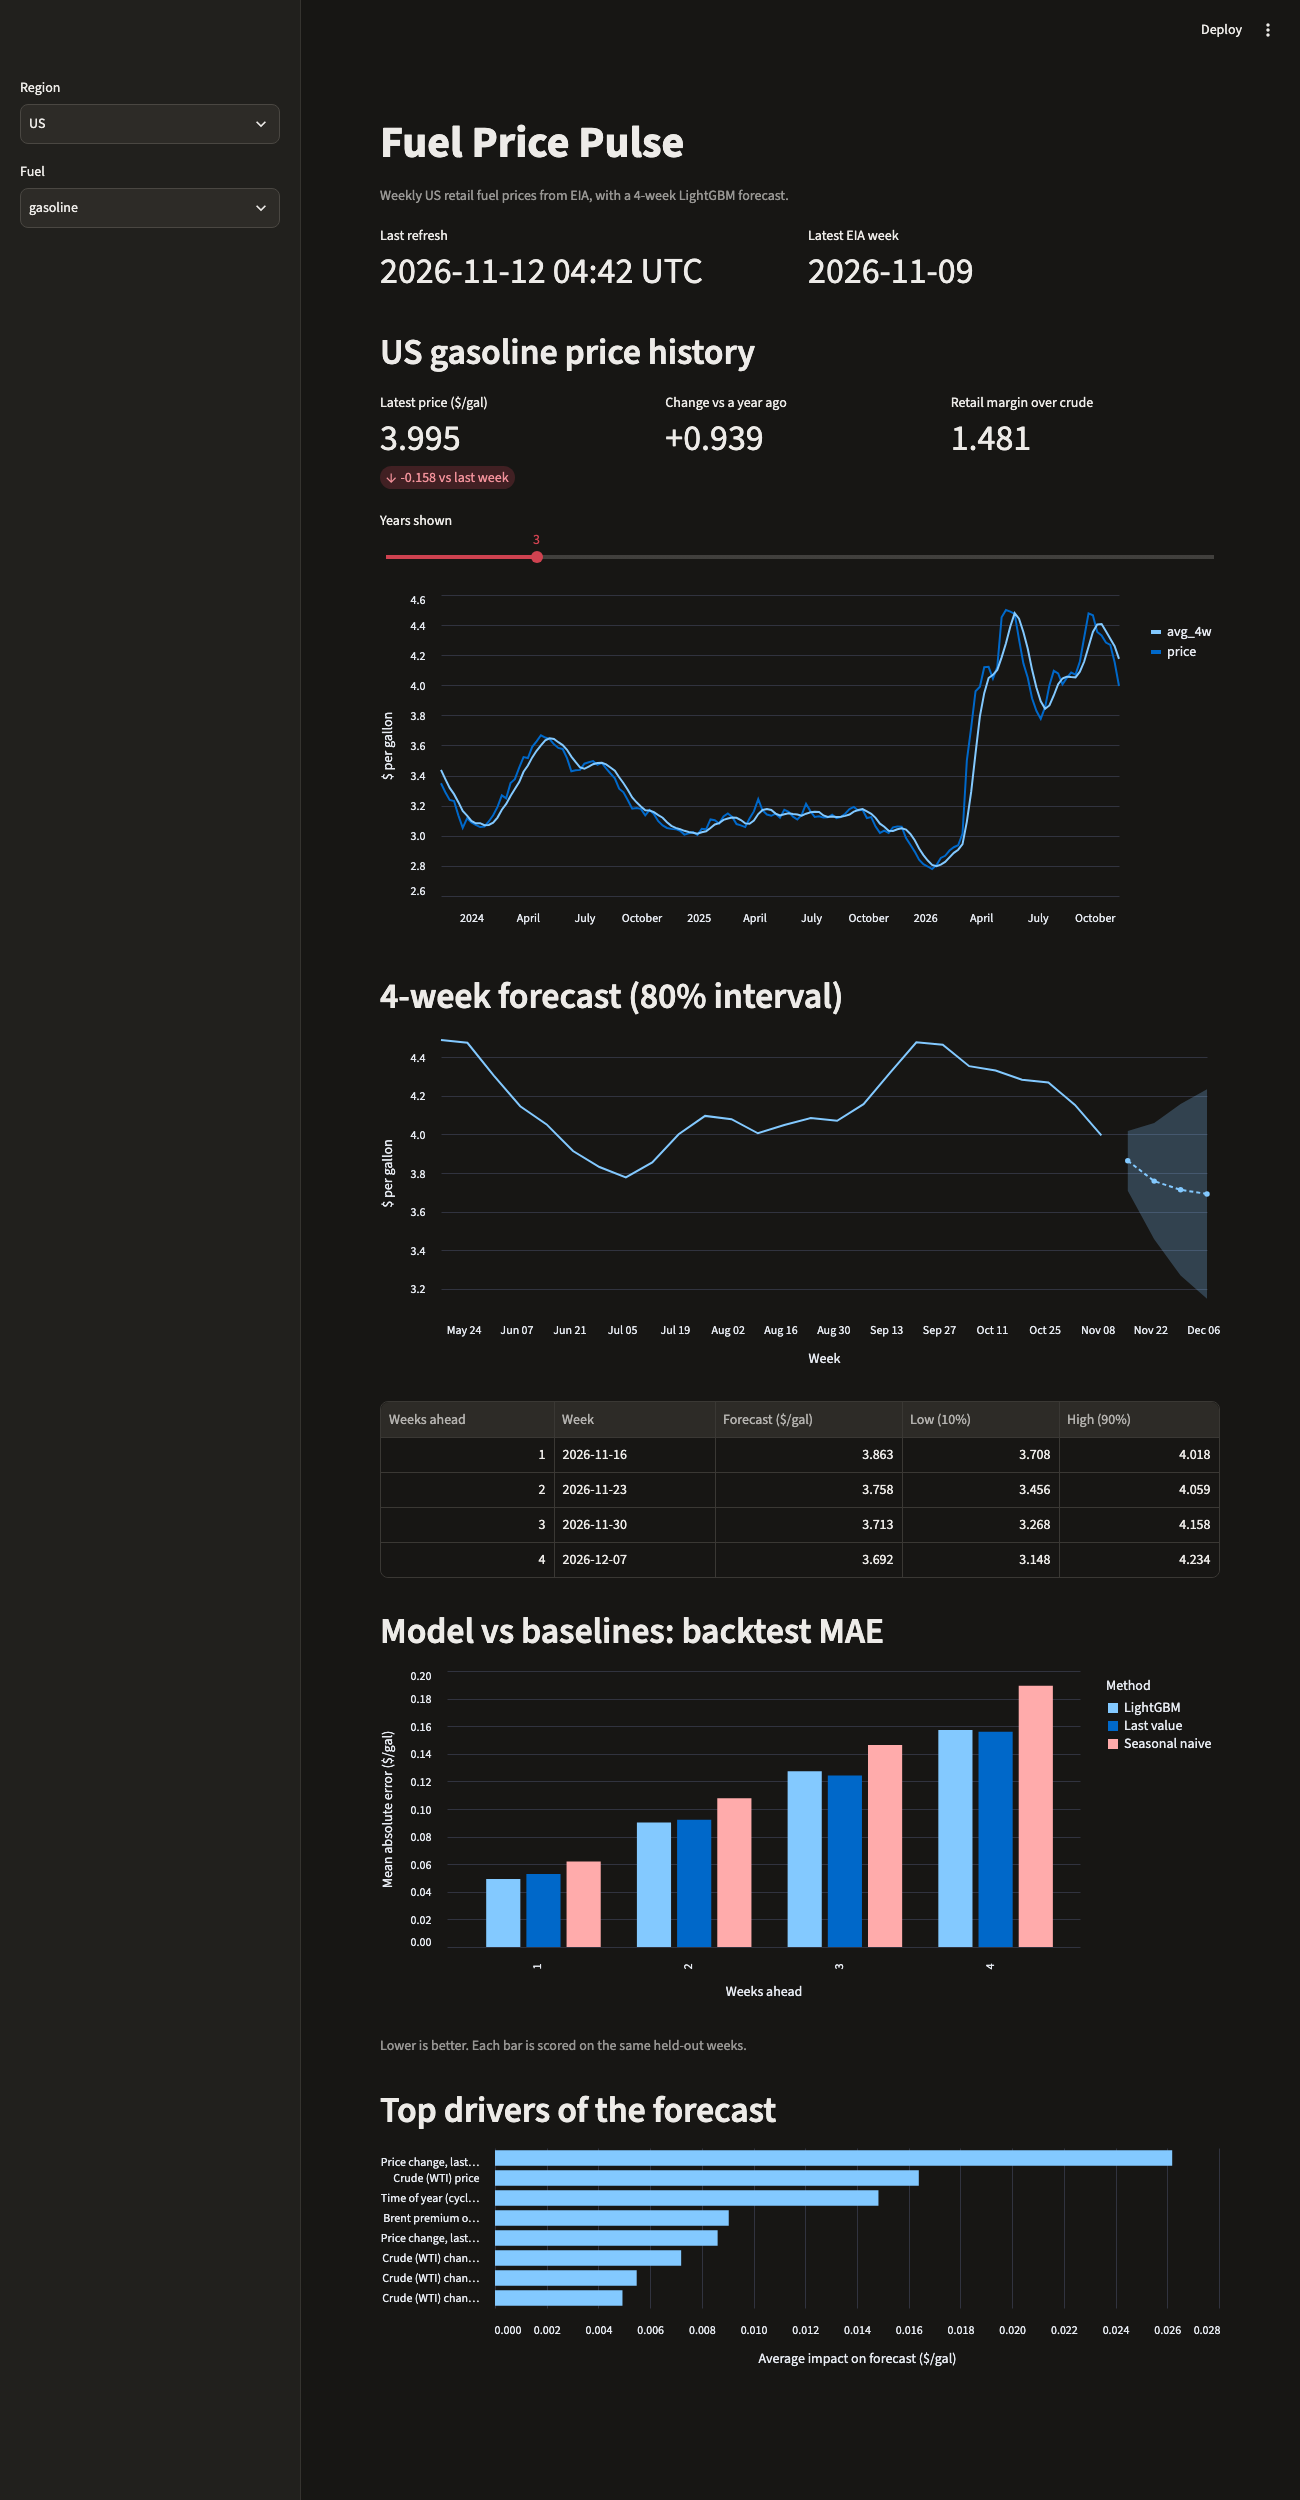
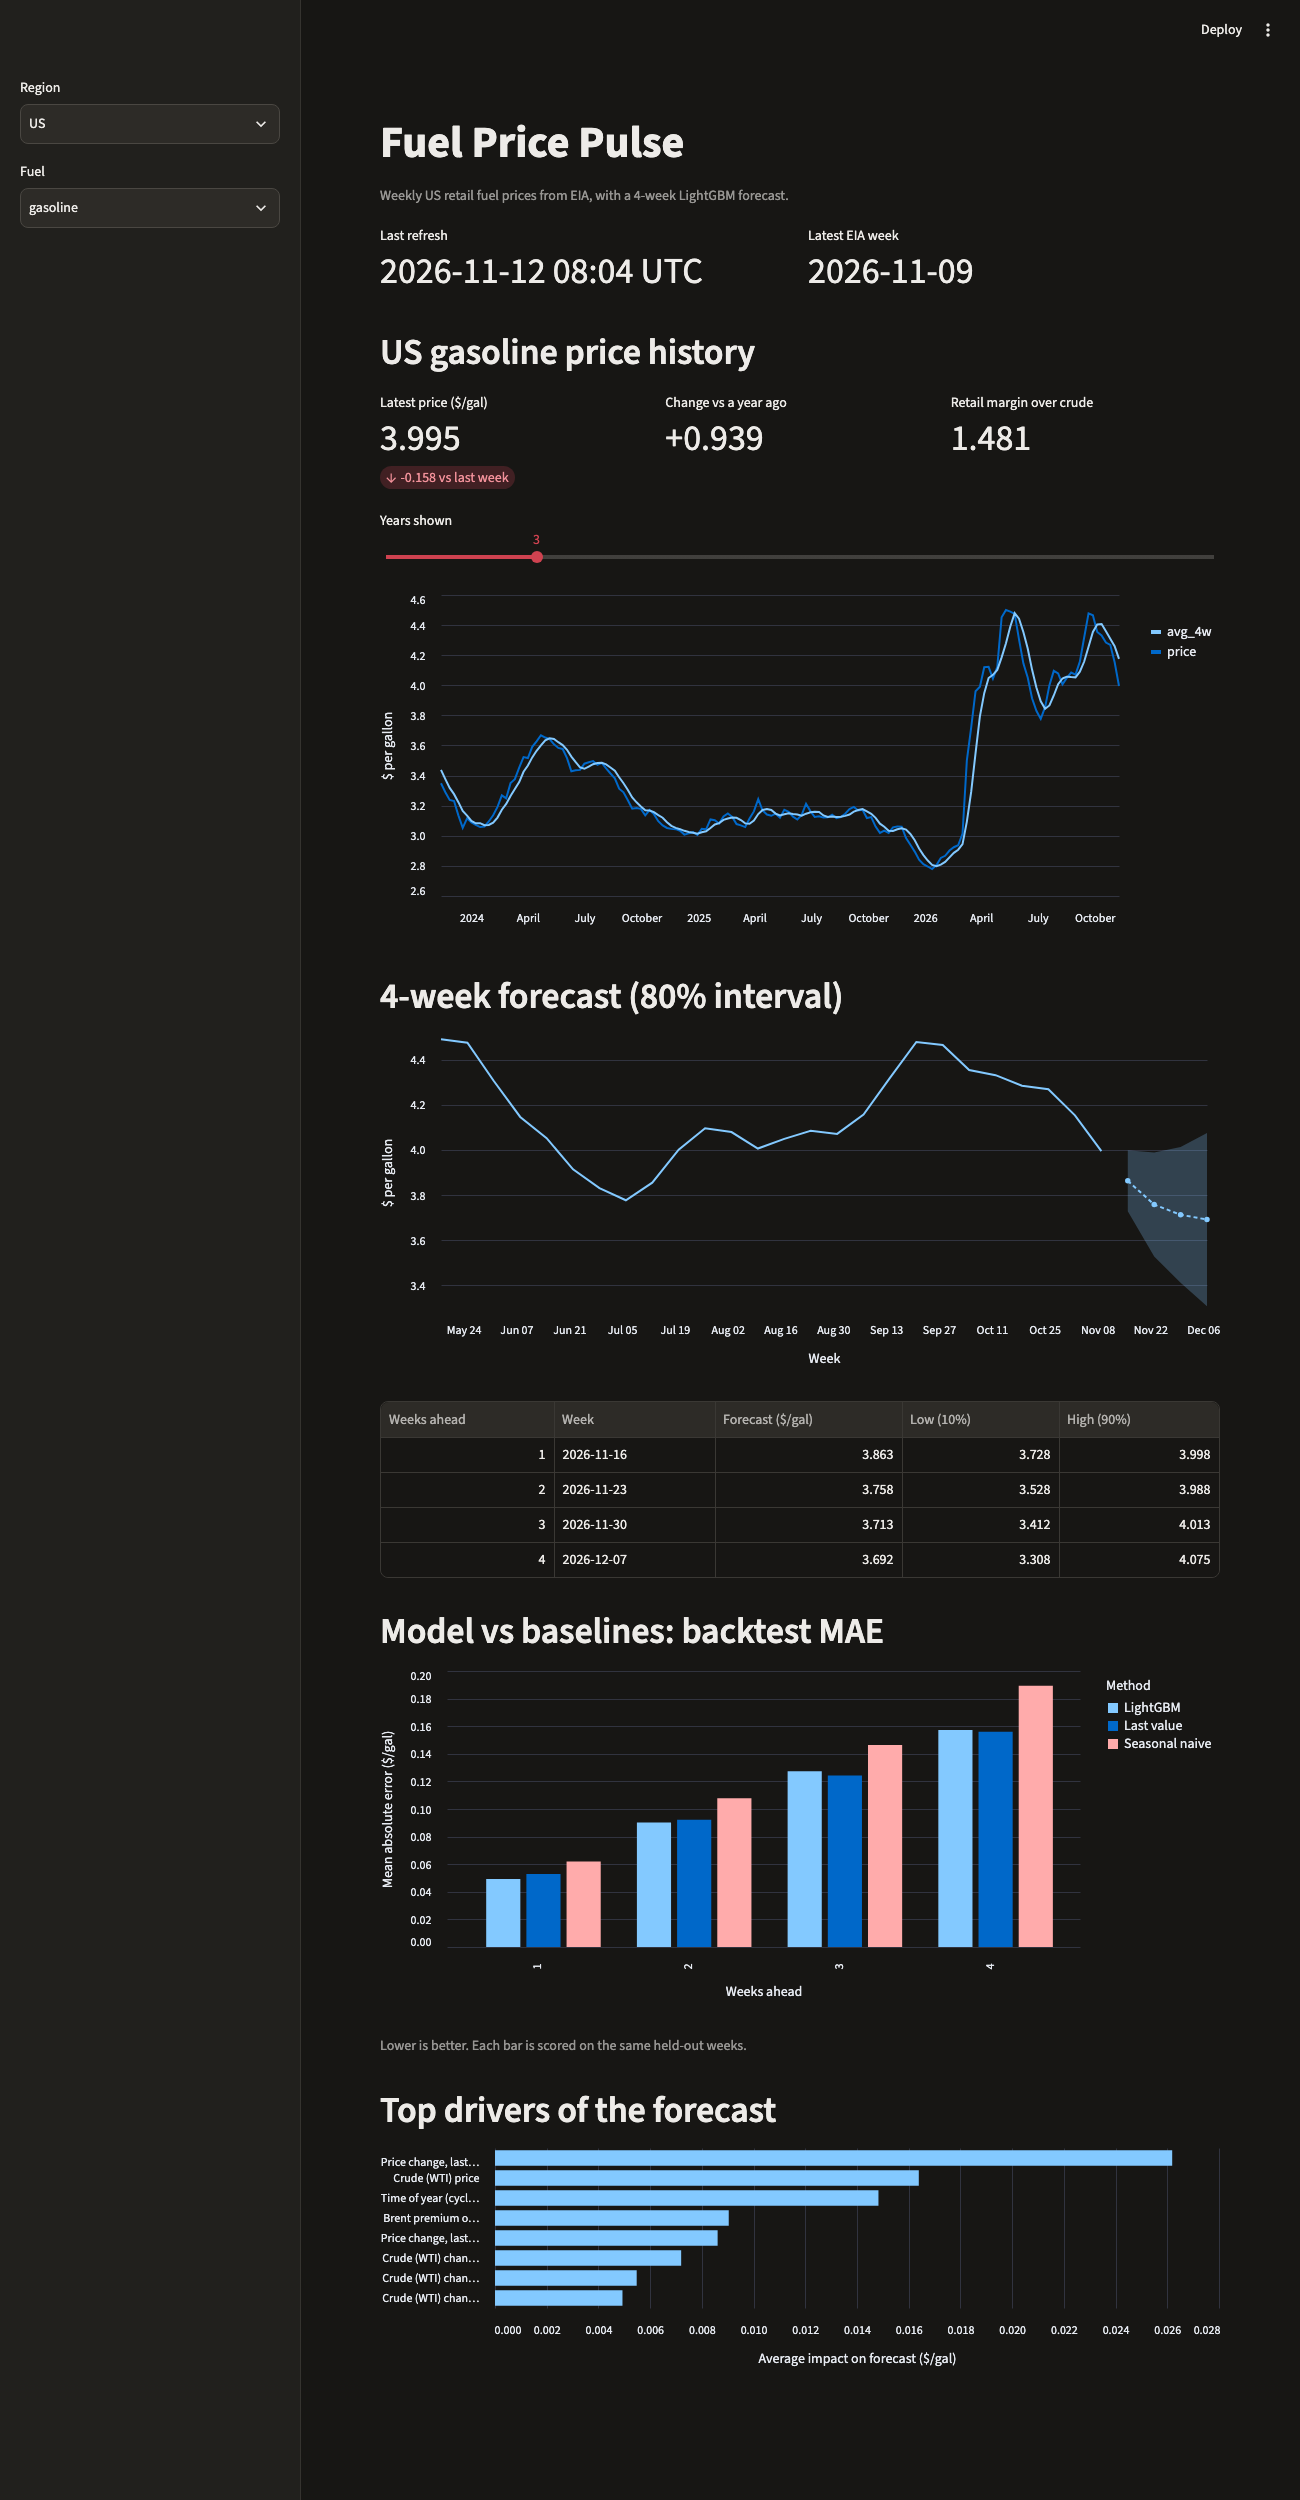
docs(demo): retake the US screenshot and add West Coast diesel
Both captured from the running app after the interval change, so the
bands shown are the volatility-scaled ones. PADD5 diesel is the most
volatile series and shows wider bands than US gasoline.

diff --git a/README.md b/README.md
@@ -8,7 +8,9 @@ A weekly pipeline that forecasts U.S. retail gasoline and diesel prices four wee
 I work at a gas station, and the question that comes up every week is where prices are heading over the next month. The government publishes the data, but nobody hands a station owner a forecast with an honest error bar and a plain statement of when to ignore it. This project does that for the U.S. average and the five PADD regions (Florida sits in PADD 1), for regular gasoline and diesel. The one-page owner's summary is [docs/findings.md](docs/findings.md).
 
 ## Demo
-![Dashboard](docs/dashboard-us-gasoline.png)
+![Dashboard, U.S. gasoline](docs/dashboard-us-gasoline.png)
+
+![Dashboard, West Coast diesel](docs/dashboard-padd5-diesel.png)
 
 Backtest error by horizon, and what moves the 4-week forecast:
 
